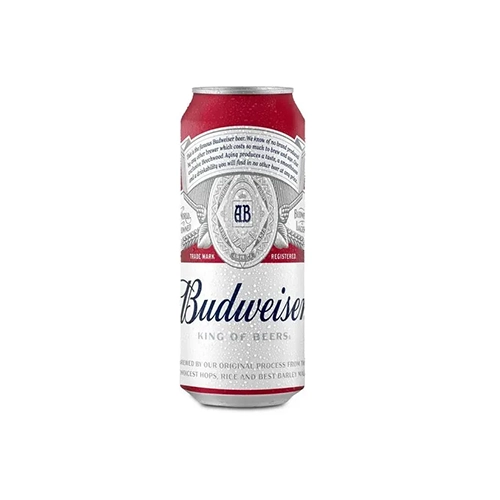
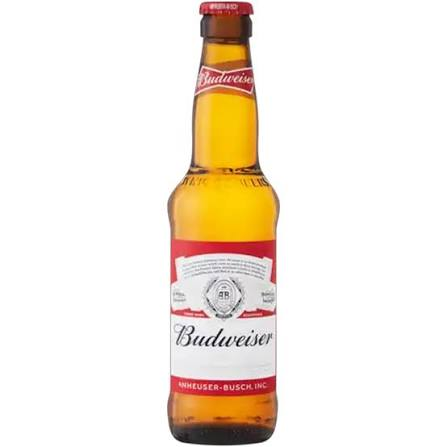
Give Castle Lite/Milk Stout, Amstel, Sol, Belgravia Dry Lemon and Redd's MXD their own can photos; restore Budweiser's bottle
Continuing the full re-check from the Black Label fix: eight more real
photos closed gaps where a Can row was showing its Dumpy/Quart sibling's
bottle photo (or, for Budweiser, the reverse — its Dumpy was showing the
Can's photo, since Budweiser's imageUrl had only ever been set by a
direct manual write outside any tracked backfill script, same anomaly
class as Skyy Vodka/Absolut Watermelon earlier this session). Budweiser's
real bottle photo is now the tracked default; its existing can photo is
preserved under its own filename and wired as the Can-specific override.

Claude-Session: https://claude.ai/code/session_01U9MLtRsPj4PQrPhb9mUeuY

Changed region(s): [[0.349, 0.0, 0.6398, 1.0]]

diff --git a/prisma/seed.js b/prisma/seed.js
@@ -19,15 +19,15 @@ const skuItems = [
   { name: 'Castle Lager', category: 'BEER', productType: 'ALCOHOL', imageUrl: '/images/brands/castle-lager.png', bottleFormat: 'Can (500ml)', unitsPerCase: 24, casePriceZAR: 349.20, palletPackQty: 84, palletPriceZAR: 28123.20, supplierPortfolio: 'SAB' },
   { name: 'Castle Milk Stout', category: 'BEER', productType: 'ALCOHOL', imageUrl: '/images/brands/castle-milk-stout.png', bottleFormat: 'Quart (750ml)', unitsPerCase: 12, casePriceZAR: 325.92, palletPackQty: 60, palletPriceZAR: 18748.80, supplierPortfolio: 'SAB' },
   { name: 'Castle Milk Stout', category: 'BEER', productType: 'ALCOHOL', imageUrl: '/images/brands/castle-milk-stout.png', bottleFormat: 'Dumpy (340ml)', unitsPerCase: 24, casePriceZAR: 372.48, palletPackQty: 84, palletPriceZAR: 29998.08, supplierPortfolio: 'SAB' },
-  { name: 'Castle Milk Stout', category: 'BEER', productType: 'ALCOHOL', imageUrl: '/images/brands/castle-milk-stout.png', bottleFormat: 'Can (500ml)', unitsPerCase: 24, casePriceZAR: 395.76, palletPackQty: 84, palletPriceZAR: 31872.96, supplierPortfolio: 'SAB' },
+  { name: 'Castle Milk Stout', category: 'BEER', productType: 'ALCOHOL', imageUrl: '/images/brands/castle-milk-stout-can.png', bottleFormat: 'Can (500ml)', unitsPerCase: 24, casePriceZAR: 395.76, palletPackQty: 84, palletPriceZAR: 31872.96, supplierPortfolio: 'SAB' },
   { name: 'Castle Lite', category: 'BEER', productType: 'ALCOHOL', imageUrl: '/images/brands/castle-lite.png', bottleFormat: 'Quart (750ml)', unitsPerCase: 12, casePriceZAR: 279.36, palletPackQty: 60, palletPriceZAR: 16070.40, supplierPortfolio: 'SAB' },
   { name: 'Castle Lite', category: 'BEER', productType: 'ALCOHOL', imageUrl: '/images/brands/castle-lite.png', bottleFormat: 'Dumpy (340ml)', unitsPerCase: 24, casePriceZAR: 325.92, palletPackQty: 84, palletPriceZAR: 26248.32, supplierPortfolio: 'SAB' },
-  { name: 'Castle Lite', category: 'BEER', productType: 'ALCOHOL', imageUrl: '/images/brands/castle-lite.png', bottleFormat: 'Can (500ml)', unitsPerCase: 24, casePriceZAR: 349.20, palletPackQty: 84, palletPriceZAR: 28123.20, supplierPortfolio: 'SAB' },
+  { name: 'Castle Lite', category: 'BEER', productType: 'ALCOHOL', imageUrl: '/images/brands/castle-lite-can.png', bottleFormat: 'Can (500ml)', unitsPerCase: 24, casePriceZAR: 349.20, palletPackQty: 84, palletPriceZAR: 28123.20, supplierPortfolio: 'SAB' },
   { name: 'Corona', category: 'BEER', productType: 'ALCOHOL', imageUrl: '/images/brands/corona.png', bottleFormat: 'Dumpy (355ml)', unitsPerCase: 24, casePriceZAR: 465.60, palletPackQty: 84, palletPriceZAR: 37497.60, supplierPortfolio: 'SAB' },
   { name: 'Corona', category: 'BEER', productType: 'ALCOHOL', imageUrl: '/images/brands/corona-can.png', bottleFormat: 'Can (410ml)', unitsPerCase: 24, casePriceZAR: 512.16, palletPackQty: 84, palletPriceZAR: 41247.36, supplierPortfolio: 'SAB' },
   { name: 'Corona', category: 'BEER', productType: 'ALCOHOL', imageUrl: '/images/brands/corona-600ml.png', bottleFormat: 'Quart (600ml)', unitsPerCase: 12, casePriceZAR: null },
   { name: 'Sol', category: 'BEER', productType: 'ALCOHOL', imageUrl: '/images/brands/sol.png', bottleFormat: 'Quart (640ml)', unitsPerCase: 24, casePriceZAR: 372.48, palletPackQty: 84, palletPriceZAR: 29998.08, supplierPortfolio: 'Heineken SA' },
-  { name: 'Sol', category: 'BEER', productType: 'ALCOHOL', bottleFormat: 'Can (500ml)', unitsPerCase: 24, casePriceZAR: 419.04, palletPackQty: 84, palletPriceZAR: 33747.84, supplierPortfolio: 'Heineken SA' },
+  { name: 'Sol', category: 'BEER', productType: 'ALCOHOL', imageUrl: '/images/brands/sol-can.png', bottleFormat: 'Can (500ml)', unitsPerCase: 24, casePriceZAR: 419.04, palletPackQty: 84, palletPriceZAR: 33747.84, supplierPortfolio: 'Heineken SA' },
   { name: 'Windhoek Lager', category: 'BEER', productType: 'ALCOHOL', bottleFormat: 'Quart (750ml)', unitsPerCase: 12, casePriceZAR: 302.64, palletPackQty: 60, palletPriceZAR: 17409.60, supplierPortfolio: 'Heineken SA' },
   { name: 'Windhoek Lager', category: 'BEER', productType: 'ALCOHOL', bottleFormat: 'Dumpy (340ml)', unitsPerCase: 24, casePriceZAR: 372.48, palletPackQty: 84, palletPriceZAR: 29998.08, supplierPortfolio: 'Heineken SA' },
   { name: 'Windhoek Lager', category: 'BEER', productType: 'ALCOHOL', bottleFormat: 'Can (500ml)', unitsPerCase: 24, casePriceZAR: 419.04, palletPackQty: 84, palletPriceZAR: 33747.84, supplierPortfolio: 'Heineken SA' },
@@ -38,9 +38,9 @@ const skuItems = [
   { name: 'Flying Fish Dry Apple', category: 'BEER', productType: 'ALCOHOL', imageUrl: '/images/brands/flying-fish-dry-apple-can.png', bottleFormat: 'Can (500ml)', unitsPerCase: 24, casePriceZAR: 372.48, palletPackQty: 84, palletPriceZAR: 29998.08, supplierPortfolio: 'SAB' },
   { name: 'Amstel Lager', category: 'BEER', productType: 'ALCOHOL', bottleFormat: 'Quart (750ml)', unitsPerCase: 12, casePriceZAR: 291.00, palletPackQty: 60, palletPriceZAR: 16740.00, supplierPortfolio: 'Heineken SA' },
   { name: 'Amstel Lager', category: 'BEER', productType: 'ALCOHOL', bottleFormat: 'Dumpy (340ml)', unitsPerCase: 24, casePriceZAR: 325.92, palletPackQty: 84, palletPriceZAR: 26248.32, supplierPortfolio: 'Heineken SA' },
-  { name: 'Amstel Lager', category: 'BEER', productType: 'ALCOHOL', bottleFormat: 'Can (500ml)', unitsPerCase: 24, casePriceZAR: 372.48, palletPackQty: 84, palletPriceZAR: 29998.08, supplierPortfolio: 'Heineken SA' },
-  { name: 'Budweiser', category: 'BEER', productType: 'ALCOHOL', bottleFormat: 'Dumpy (340ml)', unitsPerCase: 24, casePriceZAR: 349.20, palletPackQty: 84, palletPriceZAR: 28123.20, supplierPortfolio: 'SAB' },
-  { name: 'Budweiser', category: 'BEER', productType: 'ALCOHOL', bottleFormat: 'Can (500ml)', unitsPerCase: 24, casePriceZAR: 395.76, palletPackQty: 84, palletPriceZAR: 31872.96, supplierPortfolio: 'SAB' },
+  { name: 'Amstel Lager', category: 'BEER', productType: 'ALCOHOL', imageUrl: '/images/brands/amstel-lager-can.png', bottleFormat: 'Can (500ml)', unitsPerCase: 24, casePriceZAR: 372.48, palletPackQty: 84, palletPriceZAR: 29998.08, supplierPortfolio: 'Heineken SA' },
+  { name: 'Budweiser', category: 'BEER', productType: 'ALCOHOL', imageUrl: '/images/brands/budweiser.png', bottleFormat: 'Dumpy (340ml)', unitsPerCase: 24, casePriceZAR: 349.20, palletPackQty: 84, palletPriceZAR: 28123.20, supplierPortfolio: 'SAB' },
+  { name: 'Budweiser', category: 'BEER', productType: 'ALCOHOL', imageUrl: '/images/brands/budweiser-can.png', bottleFormat: 'Can (500ml)', unitsPerCase: 24, casePriceZAR: 395.76, palletPackQty: 84, palletPriceZAR: 31872.96, supplierPortfolio: 'SAB' },
   { name: 'Stella Artois', category: 'BEER', productType: 'ALCOHOL', imageUrl: '/images/brands/stella-artois.png', bottleFormat: 'Dumpy (340ml)', unitsPerCase: 24, casePriceZAR: 419.04, palletPackQty: 84, palletPriceZAR: 33747.84, supplierPortfolio: 'SAB' },
   { name: 'Stella Artois', category: 'BEER', productType: 'ALCOHOL', imageUrl: '/images/brands/stella-artois.png', bottleFormat: 'Can (500ml)', unitsPerCase: 24, casePriceZAR: 442.32, palletPackQty: 84, palletPriceZAR: 35622.72, supplierPortfolio: 'SAB' },
   { name: 'Hansa Pilsener', category: 'BEER', productType: 'ALCOHOL', imageUrl: '/images/brands/hansa-pilsener.png', bottleFormat: 'Quart (750ml)', unitsPerCase: 12, casePriceZAR: 267.72, palletPackQty: 60, palletPriceZAR: 15400.80, supplierPortfolio: 'SAB' },
@@ -137,8 +137,8 @@ const skuItems = [
   { name: 'Flying Fish Chill', category: 'CIDER_RTD', productType: 'ALCOHOL', imageUrl: '/images/brands/flying-fish-chill.png', bottleFormat: 'Can (500ml)', unitsPerCase: 24, casePriceZAR: 395.76, palletPackQty: 84, palletPriceZAR: 31872.96, supplierPortfolio: 'SAB' },
   { name: 'Belgravia Gin & Dark Cherry', category: 'CIDER_RTD', productType: 'ALCOHOL', bottleFormat: 'Dumpy (275ml)', unitsPerCase: 24, casePriceZAR: 442.32, palletPackQty: 84, palletPriceZAR: 35622.72, supplierPortfolio: 'Edward Snell & Co.' },
   { name: 'Belgravia Gin & Dark Cherry', category: 'CIDER_RTD', productType: 'ALCOHOL', bottleFormat: 'Can (500ml)', unitsPerCase: 24, casePriceZAR: 488.88, palletPackQty: 84, palletPriceZAR: 39372.48, supplierPortfolio: 'Edward Snell & Co.' },
-  { name: 'Belgravia Gin & Dry Lemon', category: 'CIDER_RTD', productType: 'ALCOHOL', bottleFormat: 'Dumpy (275ml)', unitsPerCase: 24, casePriceZAR: 442.32, palletPackQty: 84, palletPriceZAR: 35622.72, supplierPortfolio: 'Edward Snell & Co.' },
-  { name: 'Belgravia Gin & Dry Lemon', category: 'CIDER_RTD', productType: 'ALCOHOL', bottleFormat: 'Can (500ml)', unitsPerCase: 24, casePriceZAR: 488.88, palletPackQty: 84, palletPriceZAR: 39372.48, supplierPortfolio: 'Edward Snell & Co.' },
+  { name: 'Belgravia Gin & Dry Lemon', category: 'CIDER_RTD', productType: 'ALCOHOL', imageUrl: '/images/brands/belgravia-dry-lemon.png', bottleFormat: 'Dumpy (275ml)', unitsPerCase: 24, casePriceZAR: 442.32, palletPackQty: 84, palletPriceZAR: 35622.72, supplierPortfolio: 'Edward Snell & Co.' },
+  { name: 'Belgravia Gin & Dry Lemon', category: 'CIDER_RTD', productType: 'ALCOHOL', imageUrl: '/images/brands/belgravia-dry-lemon-can.png', bottleFormat: 'Can (500ml)', unitsPerCase: 24, casePriceZAR: 488.88, palletPackQty: 84, palletPriceZAR: 39372.48, supplierPortfolio: 'Edward Snell & Co.' },
   { name: 'Klipdrift Export', category: 'BRANDY', productType: 'ALCOHOL', bottleFormat: '750ml Bottle', unitsPerCase: 12, casePriceZAR: 2188.80, palletPackQty: 60, palletPriceZAR: 125856.00, supplierPortfolio: 'Heineken (Distell)' },
   { name: 'Viceroy 5 Year Old', category: 'BRANDY', productType: 'ALCOHOL', bottleFormat: '750ml Bottle', unitsPerCase: 12, casePriceZAR: 1843.20, palletPackQty: 60, palletPriceZAR: 105984.00, supplierPortfolio: 'Heineken (Distell)' },
   { name: 'Wellington VO', category: 'BRANDY', productType: 'ALCOHOL', bottleFormat: '750ml Bottle', unitsPerCase: 12, casePriceZAR: 1900.80, palletPackQty: 60, palletPriceZAR: 109296.00, supplierPortfolio: 'Distell Portfolio' },

diff --git a/server/scripts/backfill-format-specific-photos.js b/server/scripts/backfill-format-specific-photos.js
@@ -75,6 +75,21 @@ const FORMAT_SPECIFIC_IMAGES = [
   // in a full re-check of every photo sent this session, same fix as the
   // other Can-format entries above.
   { name: 'Black Label', bottleFormat: 'Can (500ml)', slug: 'carling-black-label-can' },
+  // Same class of fix, next batch of real can/bottle photos the founder
+  // sent after the Black Label check — each of these had its bottle shot
+  // (or, for Budweiser, its can shot) standing in for every format.
+  { name: 'Castle Lite', bottleFormat: 'Can (500ml)', slug: 'castle-lite-can' },
+  { name: 'Amstel Lager', bottleFormat: 'Can (500ml)', slug: 'amstel-lager-can' },
+  { name: 'Castle Milk Stout', bottleFormat: 'Can (500ml)', slug: 'castle-milk-stout-can' },
+  // Budweiser's default (backfill-extracted-brand-photos.js) used to be its
+  // Can photo, set outside any tracked backfill script — a real bottle
+  // photo arrived and became the new default, so the Can now needs this
+  // explicit override to keep its own real can photo.
+  { name: 'Budweiser', bottleFormat: 'Can (500ml)', slug: 'budweiser-can' },
+  { name: 'Belgravia Gin & Dry Lemon', bottleFormat: 'Can (500ml)', slug: 'belgravia-dry-lemon-can' },
+  { name: "Redd's MXD Guarana", bottleFormat: 'Can (500ml)', slug: 'redds-mxd-guarana-can' },
+  { name: "Redd's MXD Pine", bottleFormat: 'Can (500ml)', slug: 'redds-mxd-pine-can' },
+  { name: 'Sol', bottleFormat: 'Can (500ml)', slug: 'sol-can' },
 ];
 
 export async function backfillFormatSpecificPhotos() {

diff --git a/server/scripts/backfill-extracted-brand-photos.js b/server/scripts/backfill-extracted-brand-photos.js
@@ -54,6 +54,12 @@ const EXTRACTED_BRAND_IMAGES = {
   "Hunter's Chilled": 'hunters-chilled',
   'Windhoek Lager': 'windhoek-lager',
   'Amstel Lager': 'amstel-lager',
+  // Previously set by a direct manual write outside any tracked backfill
+  // script (same anomaly class as Skyy Vodka/Absolut Watermelon earlier
+  // this session) — now tracked properly, pointing at the real bottle
+  // photo; the Can row's own photo lives in
+  // backfill-format-specific-photos.js.
+  'Budweiser': 'budweiser',
   'Castle Milk Stout': 'castle-milk-stout',
   'Guinness Foreign Extra': 'guinness-foreign-extra',
   'Wellington VO': 'wellington-vo',
